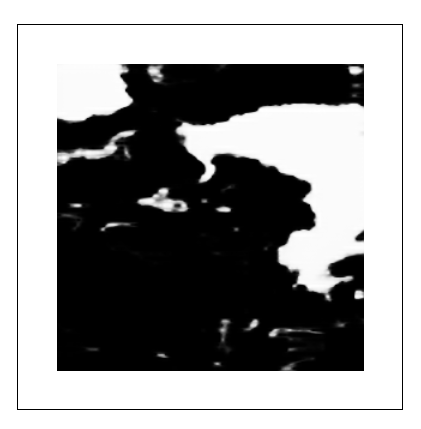
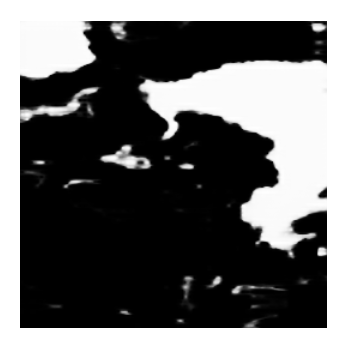
homepage and kaleidoscope update part 2
homepage styles changed; previews changed; work on kaleidoscope page continues.

diff --git a/oeuvres/kaleidoscope/index.html b/oeuvres/kaleidoscope/index.html
@@ -4,7 +4,8 @@
 		<title>Калейдоскоп</title>
 		<meta name="viewport" content="width=device-width, initial-scale=1">
 		<meta charset="utf-8">
-		<script src="slider-animation.js"></script>
+		<script src="./slider-animation.js"></script>
+		<script src="./pentagonal-tiling-type5.js"></script>
 		<style>
 			#lever {
 				display: inline-grid;
@@ -28,7 +29,7 @@
 			<div id="lens">
 				<svg id="lens-svg" width="500" height="500" viewBox="0 0 100 100">
 					<defs>
-						<pattern id='pattern1' patternUnits='userSpaceOnUse' width='20' height='20' patternTransform='scale(0.15) rotate(0)'><rect x='0' y='0' width='100%' height='100%' fill='hsla(0,0%,100%,1)'/><path d='M10-10L20 0v10L10 0zM20 0L10-10V0l10 10zm0 10L10 0v10l10 10zm0 10L10 10v10l10 10zM0 20l10-10v10L0 30zm0-10L10 0v10L0 20zM0 0l10-10V0L0 10z'  stroke-width='0.5' stroke='hsla(258.5,59.4%,59.4%,1)' fill='none'/></pattern>
+						<pattern id='pattern1' patternUnits='userSpaceOnUse' width='20' height='20' patternTransform='scale(0.1) rotate(0)'><rect x='0' y='0' width='100%' height='100%' fill='hsla(0,0%,100%,1)'/><path d='M10-10L20 0v10L10 0zM20 0L10-10V0l10 10zm0 10L10 0v10l10 10zm0 10L10 10v10l10 10zM0 20l10-10v10L0 30zm0-10L10 0v10L0 20zM0 0l10-10V0L0 10z'  stroke-width='0.5' stroke='hsla(258.5,59.4%,59.4%,1)' fill='none'/></pattern>
 					</defs>
 				</svg>
 			</div>
@@ -46,66 +47,20 @@
 			let speed = Number(document.getElementById('speed-slider').value);
 			(sliderX = createSliderAnimation(onXChange, speed))();
 			(sliderY = createSliderAnimation(onYChange, speed))();
+			
+			createPentagonalTilingType5(document.getElementById("lens-svg"), "url(#pattern1)", {x: 50, y: 50}, 5, 3, 130, 4);
 
 			function onXChange(position) {
 				document.getElementById("svg-dot").setAttributeNS(null, "cx", position * 100);
 			}
+			
 			function onYChange(position) {
 				document.getElementById("svg-dot").setAttributeNS(null, "cy", position * 100);
 			}
+
 			function onSpeedChange(value) {
 				sliderX.setSpeed(Number(value));
 				sliderY.setSpeed(Number(value));
-			}
-		</script>
-		<script>
-			createPentagonalTilingType5(document.getElementById("lens-svg"), "url(#pattern1)", {x: 10, y: 10}, 10, 5, 150, 2);
-
-			function createPentagonalTilingType5(svgcanvas, fill, start, size, count, parameterAngle, parameterSegment) {
-				function createPrimitiveCell(center) {
-					function createSingleTile(center, angle) {
-						const tile = document.createElementNS("http://www.w3.org/2000/svg", "polygon");
-						const points = [svgcanvas.createSVGPoint()];
-						points[0].x = center.x;
-						points[0].y = center.y;
-						function addPointOff(distance, angle) {
-							p = svgcanvas.createSVGPoint();
-							p.x = points[points.length - 1].x;
-							p.y = points[points.length - 1].y;
-							p.x += distance * Math.cos(angle / 180 * Math.PI);
-							p.y += distance * Math.sin(angle / 180 * Math.PI);
-							points.push(p);
-						}
-						addPointOff(size, angle);
-						addPointOff(parameterSegment, angle - (180 - parameterAngle));
-						const u = (parameterAngle - 60) * Math.PI / 180;
-						const x = Math.sqrt(size**2 + parameterSegment**2 - 2*size*parameterSegment*Math.cos(u));
-						const a = Math.asin(size / x * Math.sin(u)) * 180 / Math.PI + 30;
-						addPointOff(x / Math.sqrt(3), angle - (180 - parameterAngle) - (180 - a));
-						addPointOff(x / Math.sqrt(3), angle - (180 - parameterAngle) - (180 - a) - 60);
-						for (point of points) {
-							tile.points.appendItem(point);
-						}
-						tile.style.fill = fill;
-						return tile;
-					}
-					for (angle = 0; angle < 360; angle += 60) {
-						const tile = createSingleTile({x: 0, y: 0}, 0);
-						tile.setAttribute("transform", `translate(${center.x}, ${center.y}) rotate(${angle})`);
-						tile.style.stroke = "black";
-						svgcanvas.appendChild(tile);
-					}
-				}
-				stepX = 2 * size * Math.sin(30 * Math.PI / 180);
-				stepY = 2 * size * Math.cos(30 * Math.PI / 180);
-				for (i = 0; i < count; i++) {
-					for (j = 0; j < 1; j++) {
-						createPrimitiveCell({
-							x: start.x + stepX * i + stepY * j,
-							y: start.y + stepX * j + stepY * i
-						});
-					}
-				}
 			}
 		</script>
 	</body>

diff --git a/oeuvres/kaleidoscope/pentagonal-tiling-type5.js b/oeuvres/kaleidoscope/pentagonal-tiling-type5.js
@@ -1,0 +1,61 @@
+"use strict"
+
+function createPentagonalTilingType5(svgcanvas, fill, start, size, count, parameterAngle, parameterSegment) {
+    function createPrimitiveCell(center) {
+        const cell = document.createElementNS("http://www.w3.org/2000/svg", "g");
+        function createSingleTile(center, angle) {
+            const tile = document.createElementNS("http://www.w3.org/2000/svg", "polygon");
+            const points = [svgcanvas.createSVGPoint()];
+            points[0].x = center.x;
+            points[0].y = center.y;
+            function addPointOff(distance, angle) {
+                const p = svgcanvas.createSVGPoint();
+                p.x = points[points.length - 1].x;
+                p.y = points[points.length - 1].y;
+                p.x += distance * Math.cos(angle / 180 * Math.PI);
+                p.y += distance * Math.sin(angle / 180 * Math.PI);
+                points.push(p);
+            }
+            addPointOff(size, angle);
+            addPointOff(parameterSegment, angle - (180 - parameterAngle));
+            const u = (parameterAngle - 60) * Math.PI / 180;
+            const x = Math.sqrt(size**2 + parameterSegment**2 - 2*size*parameterSegment*Math.cos(u));
+            const a = Math.asin(size / x * Math.sin(u)) * 180 / Math.PI + 30;
+            addPointOff(x / Math.sqrt(3), angle - (180 - parameterAngle) - (180 - a));
+            addPointOff(x / Math.sqrt(3), angle - (180 - parameterAngle) - (180 - a) - 60);
+            for (let point of points) {
+                tile.points.appendItem(point);
+            }
+            tile.style.fill = fill;
+            return tile;
+        }
+        const base_segment2_opposite_side = Math.sqrt(size**2 + (parameterSegment/2)**2 - 2*size*(parameterSegment/2)*Math.cos(parameterAngle*Math.PI/180));
+        const additionalRotation = Math.asin((parameterSegment/2)/base_segment2_opposite_side*Math.sin(parameterAngle*Math.PI/180)) * 180 / Math.PI;
+        for (let rotation = 0; rotation < 360; rotation += 60) {
+            const tile = createSingleTile({x: 0, y: 0}, 0);
+            tile.setAttribute("transform", `translate(${center.x}, ${center.y}) rotate(${rotation + additionalRotation})`);
+            tile.style.stroke = "black";
+            tile.style.strokeWidth = "0.1";
+            cell.appendChild(tile);
+        }
+        svgcanvas.appendChild(cell);
+    }
+    const a = parameterAngle*Math.PI/180 - Math.PI/3;
+    const s1 = size**2 * Math.sqrt(3) / 4;
+    const s2 = 1/2*size*parameterSegment*Math.sin(a);
+    const s3 = Math.sqrt(3)/12*(size**2+parameterSegment**2-2*size*parameterSegment*Math.cos(a));
+    const s = 6*(s1+s2+s3);
+    const step = Math.pow(108, 1/4)/3*Math.sqrt(s);
+
+    createPrimitiveCell(start);
+    for (let layer = 1; layer < count; layer++) {
+        for (let angle = 0; angle < 2*Math.PI; angle += 2*Math.PI/6) {
+            for (let i = 0; i < layer; i++) {
+            createPrimitiveCell({
+                x: start.x + layer*step*Math.cos(angle) + i*step*Math.cos(angle + 2*Math.PI/3),
+                y: start.y + layer*step*Math.sin(angle) + i*step*Math.sin(angle + 2*Math.PI/3)
+            });
+            }
+        }
+    }
+}

diff --git a/index.html b/index.html
@@ -13,12 +13,20 @@
 				justify-content: center;
 			}
 			.cell {
+				position: relative;
 				width: 14em;
 				margin: 1em;
 				padding: 0;
 				border: 1px solid lightgray;
 				border-radius: 16px;
 				background-color: #fffbf9;
+				top: 0;
+				filter: drop-shadow(8px 8px 8px #efefef);
+				transition: top 2s, filter 2s;
+			}
+			.cell:hover {
+				top: -2px;
+				filter: drop-shadow(8px 8px 8px #e5e5e5);
 			}
 			.cell a {
 				display: flex;
@@ -34,6 +42,8 @@
 				display: inline-block;
 				text-align: center;
 				width: 100%;
+				font-family: sans;
+				margin-bottom: 0.5em;
 			}
 			.cell-image {
 				position: relative;
@@ -55,7 +65,7 @@
 				border-radius: 8px;
 			}
 			.cell-image-rear {
-				filter: blur(1em) opacity(40%);
+				filter: blur(0.8em) opacity(50%);
 				height: 11em;
 				width: 11em;
 				z-index: -1;
